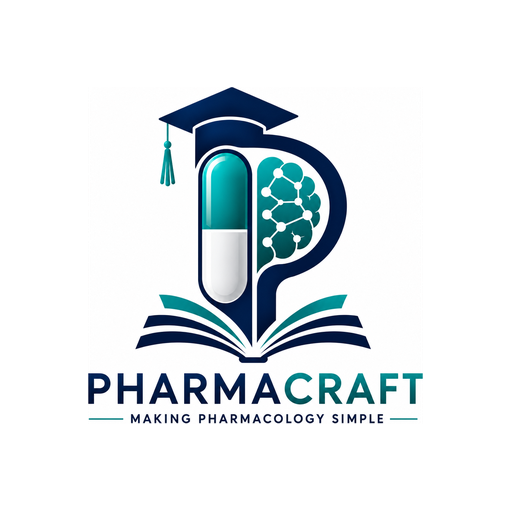
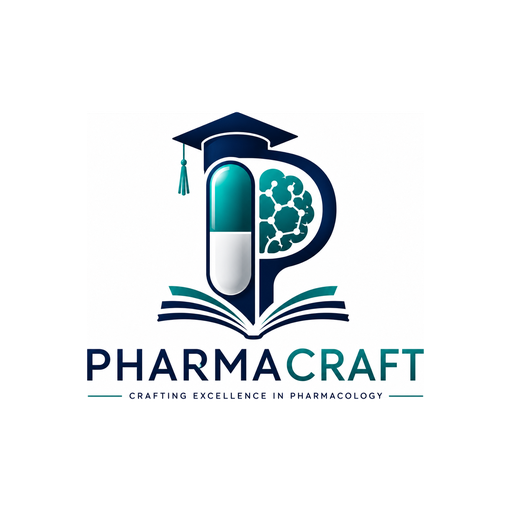
Add files via upload

Changed region(s): [[0.1562, 0.1562, 0.8438, 0.8438], [0.1875, 0.8125, 0.2188, 0.8438]]

diff --git a/sw.js b/sw.js
@@ -1,7 +1,7 @@
 /* PharmaCraft Service Worker
    Cache-first for shell, network-first for HTML.
    Version bumped each deploy to force update. */
-const CACHE_VERSION = 'pharmacraft-v98-new-logo-final-20260816';
+const CACHE_VERSION = 'pharmacraft-v99-logo-update-20260816';
 const CORE_ASSETS = [
   '/',
   '/index.html',
